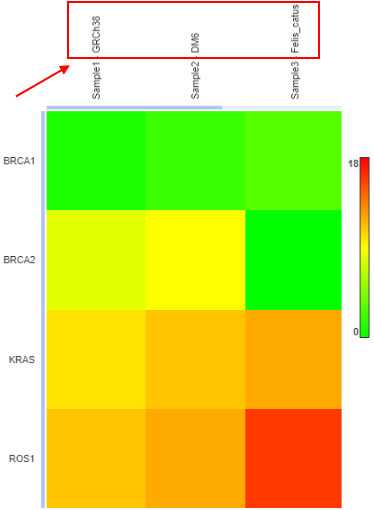
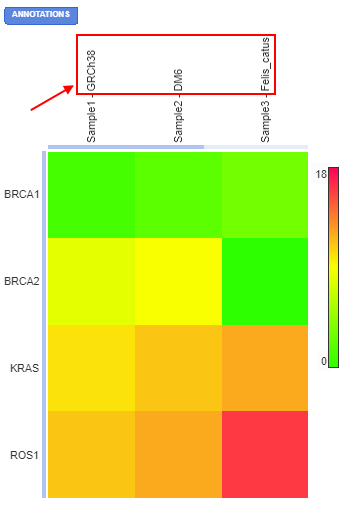
'Heatmap' doc update ('Dendrogram' block was added)

diff --git a/docs/md/user-guide/tracks-heatmap.md b/docs/md/user-guide/tracks-heatmap.md
@@ -9,6 +9,7 @@
     - [Displaying additional details](#displaying-additional-details)
         - [Cell annotations](#cell-annotations)
         - [Row/column annotations](#rowcolumn-annotations)
+        - [Dendrograms](#dendrograms)
 - [Displaying at the Summary page](#displaying-at-the-summary-page)
 - [Heatmap as a reference annotation](#heatmap-as-a-reference-annotation)
 - [Navigation from annotations](#navigation-from-annotations)
@@ -146,7 +147,7 @@ If the scheme above was saved, our heatmap will be redrawn:
 
 ### Displaying additional details
 
-Any heatmap can have additional details - row/column annotations, cell annotations.  
+Any heatmap can have additional details - row/column annotations, cell annotations, dendrograms.  
 These details are defined by additional files that can be registered simultaneously with heatmap or added after.
 
 #### Cell annotations
@@ -196,6 +197,30 @@ Sample3    Gorilla_female
 
 If the current heatmap has a linked row/column annotations file - the corresponding annotation labels will appear on the corresponding axis of the heatmap (near the axis headers), e.g. annotations for columns:  
   ![NGB GUI](images/heatmap-15.png)
+
+You can manually hide/show annotations by click the **ANNOTATIONS** control in the left upper corner of the panel:  
+  ![NGB GUI](images/heatmap-24.png)  
+**_Note_**: this control is displayed on the panel only if a heatmap has a linked row/column annotations file.
+
+#### Dendrograms
+
+For each side of the histogram (rows/columns), may be set a dendrogram (phylogenetic tree).  
+File with a dendogram should be presented as plain `txt` file that content tree-date in [`Newick`](http://wiki.christophchamp.com/index.php?title=Newick_phylogenetic_tree_format) format.
+
+Example:
+
+```
+((Human:0.1,Gorilla:0.1):0.4,(Mouse:0.2,Rat:0.2):0.3);
+```
+
+**_Note_**: registered dendrogram files are not displayed in the datasets tree
+
+If the current heatmap has linked row/column phylogenetic tree file(s) - the corresponding dendrogram(s) will appear on the corresponding side of the heatmap, e.g. dendrogram for rows:  
+  ![NGB GUI](images/heatmap-25.png)
+
+You can manually hide/show dendrogram(s) by click the **DENDROGRAM** control in the left upper corner of the panel:  
+  ![NGB GUI](images/heatmap-26.png)  
+**_Note_**: this control is displayed on the panel only if a heatmap has a linked dendrogram file(s).
 
 ## Displaying at the Summary page
 
